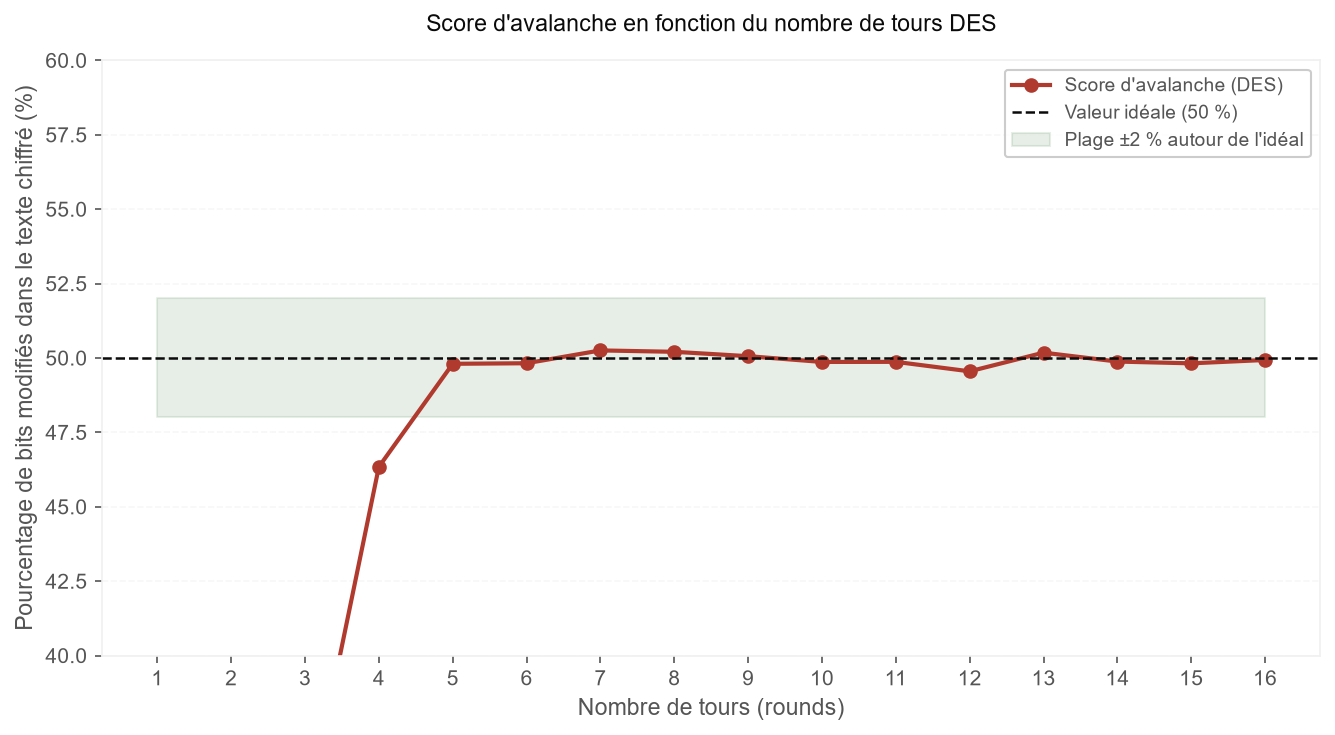
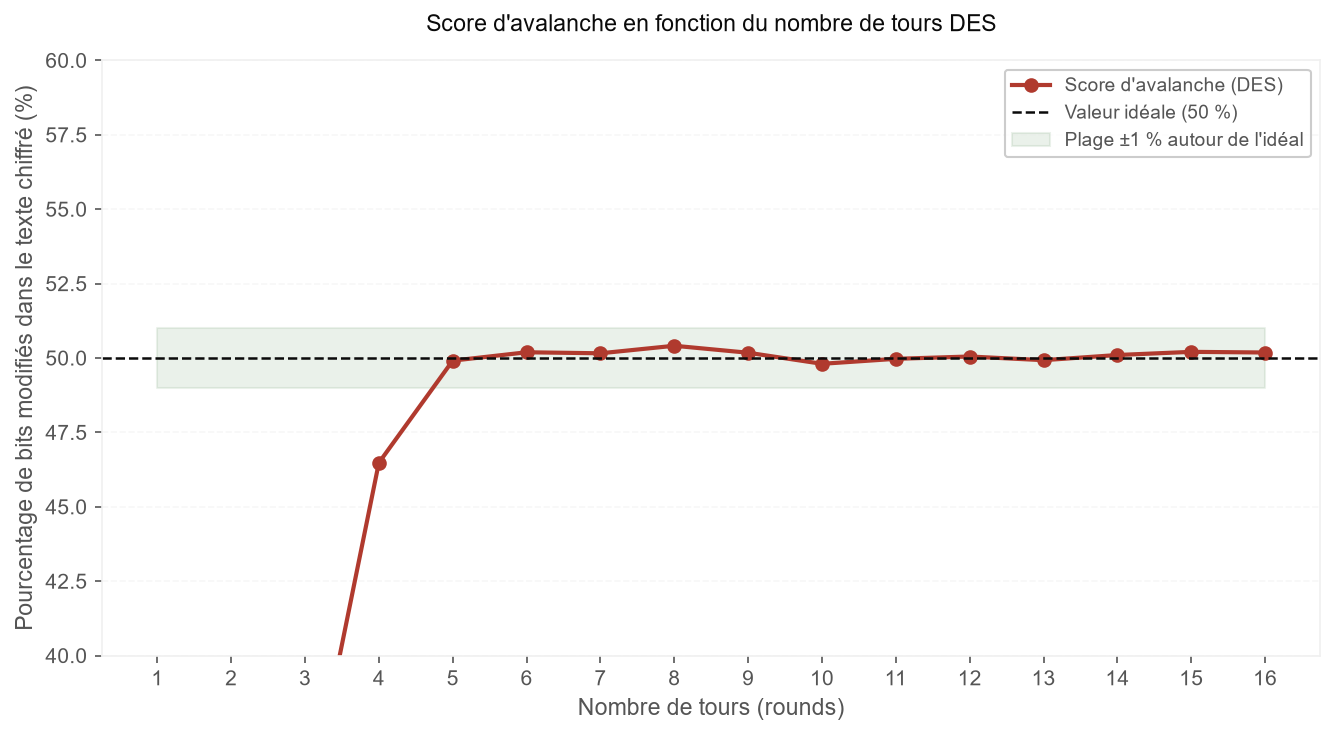
commit

diff --git a/crypto-experiments/scripts/chart_pipeline/data_avalanche_rounds.py b/crypto-experiments/scripts/chart_pipeline/data_avalanche_rounds.py
@@ -7,8 +7,7 @@ La construction du graphique se fait dans ``build_avalanche_rounds.py``.
 
 from __future__ import annotations
 
-import os
-import secrets
+import random
 
 
 # ---------------------------------------------------------------------------
@@ -50,7 +49,29 @@ _S = [
 _PC1 = [57,49,41,33,25,17,9,1,58,50,42,34,26,18,10,2,59,51,43,35,27,19,11,3,60,52,44,36,63,55,47,39,31,23,15,7,62,54,46,38,30,22,14,6,61,53,45,37,29,21,13,5,28,20,12,4]
 _PC2 = [14,17,11,24,1,5,3,28,15,6,21,10,23,19,12,4,26,8,16,7,27,20,13,2,41,52,31,37,47,55,30,40,51,45,33,48,44,49,39,56,34,53,46,42,50,36,29,32]
 _SHIFTS = [1,1,2,2,2,2,2,2,1,2,2,2,2,2,2,1]
-TRIALS = 500
+TRIALS = 1000
+_BASE_SEED = 1430
+
+
+def _build_trial_set(trials: int) -> tuple[bytes, list[tuple[bytes, int, int]]]:
+    """Construit un jeu d'essais déterministe partagé par tous les nombres de tours.
+
+    Le but est d'isoler l'effet du nombre de tours: chaque point de la courbe
+    est mesuré avec la même clé, les mêmes blocs et les mêmes bits inversés.
+    """
+    rng = random.Random(_BASE_SEED)
+
+    def next_byte() -> int:
+        return rng.getrandbits(8)
+
+    key = bytes(next_byte() for _ in range(8))
+    trial_set: list[tuple[bytes, int, int]] = []
+    for _ in range(trials):
+        block = bytes(next_byte() for _ in range(8))
+        flip_byte = rng.randrange(8)
+        flip_bit = rng.randrange(8)
+        trial_set.append((block, flip_byte, flip_bit))
+    return key, trial_set
 
 
 def _bytes_to_bits(b: bytes) -> list[int]:
@@ -132,19 +153,23 @@ def des_encrypt_n_rounds(plaintext: bytes, key: bytes, n_rounds: int) -> bytes:
     return _bits_to_bytes(_permute(right + left, _IP_INV))
 
 
-def measure_avalanche_at_rounds(n_rounds: int, trials: int = TRIALS) -> float:
+def measure_avalanche_at_rounds(
+    n_rounds: int,
+    trials: int = TRIALS,
+    key: bytes | None = None,
+    trial_set: list[tuple[bytes, int, int]] | None = None,
+) -> float:
     """Mesure le score d'avalanche moyen pour un nombre de tours donné.
 
     À chaque essai, un seul bit du texte clair est modifié, puis on compare le
     nombre de bits changés dans les deux textes chiffrés obtenus.
     """
-    key = os.urandom(8)
+    if key is None or trial_set is None:
+        key, trial_set = _build_trial_set(trials)
+
     scores: list[float] = []
-    for _ in range(trials):
-        block = os.urandom(8)
+    for block, flip_byte, flip_bit in trial_set:
         reference = des_encrypt_n_rounds(block, key, n_rounds)
-        flip_byte = secrets.randbelow(8)
-        flip_bit = secrets.randbelow(8)
         modified = bytearray(block)
         modified[flip_byte] ^= 1 << flip_bit
         changed = des_encrypt_n_rounds(bytes(modified), key, n_rounds)
@@ -160,9 +185,15 @@ def measure_rounds_series(trials: int = TRIALS) -> list[dict[str, float]]:
     La sortie est déjà prête pour l'affichage console et pour le rendu du
     graphique final.
     """
+    key, trial_set = _build_trial_set(trials)
     series = []
     for n_rounds in range(1, 17):
-        score = measure_avalanche_at_rounds(n_rounds, trials=trials)
+        score = measure_avalanche_at_rounds(
+            n_rounds,
+            trials=trials,
+            key=key,
+            trial_set=trial_set,
+        )
         series.append({
             "rounds": n_rounds,
             "score": score,

diff --git a/crypto-experiments/scripts/chart_pipeline/build_avalanche_rounds.py b/crypto-experiments/scripts/chart_pipeline/build_avalanche_rounds.py
@@ -46,7 +46,7 @@ def generate_rounds_avalanche_chart():
     ax.set_facecolor(BG_COLOR)
     ax.plot(rounds_list, scores_pct, marker="o", linewidth=2, color="#B03A2E", label="Score d'avalanche (DES)")
     ax.axhline(50.0, color="#0A0A0A", linestyle="--", linewidth=1.2, label="Valeur idéale (50 %)")
-    ax.fill_between(rounds_list, [48.0] * 16, [52.0] * 16, alpha=0.12, color="#3A7A3A", label="Plage ±2 % autour de l'idéal")
+    ax.fill_between(rounds_list, [49.0] * 16, [51.0] * 16, alpha=0.10, color="#3A7A3A", label="Plage ±1 % autour de l'idéal")
     ax.set_xlabel("Nombre de tours (rounds)", fontsize=11)
     ax.set_ylabel("Pourcentage de bits modifiés dans le texte chiffré (%)", fontsize=11)
     ax.set_title("Score d'avalanche en fonction du nombre de tours DES", fontsize=11)
